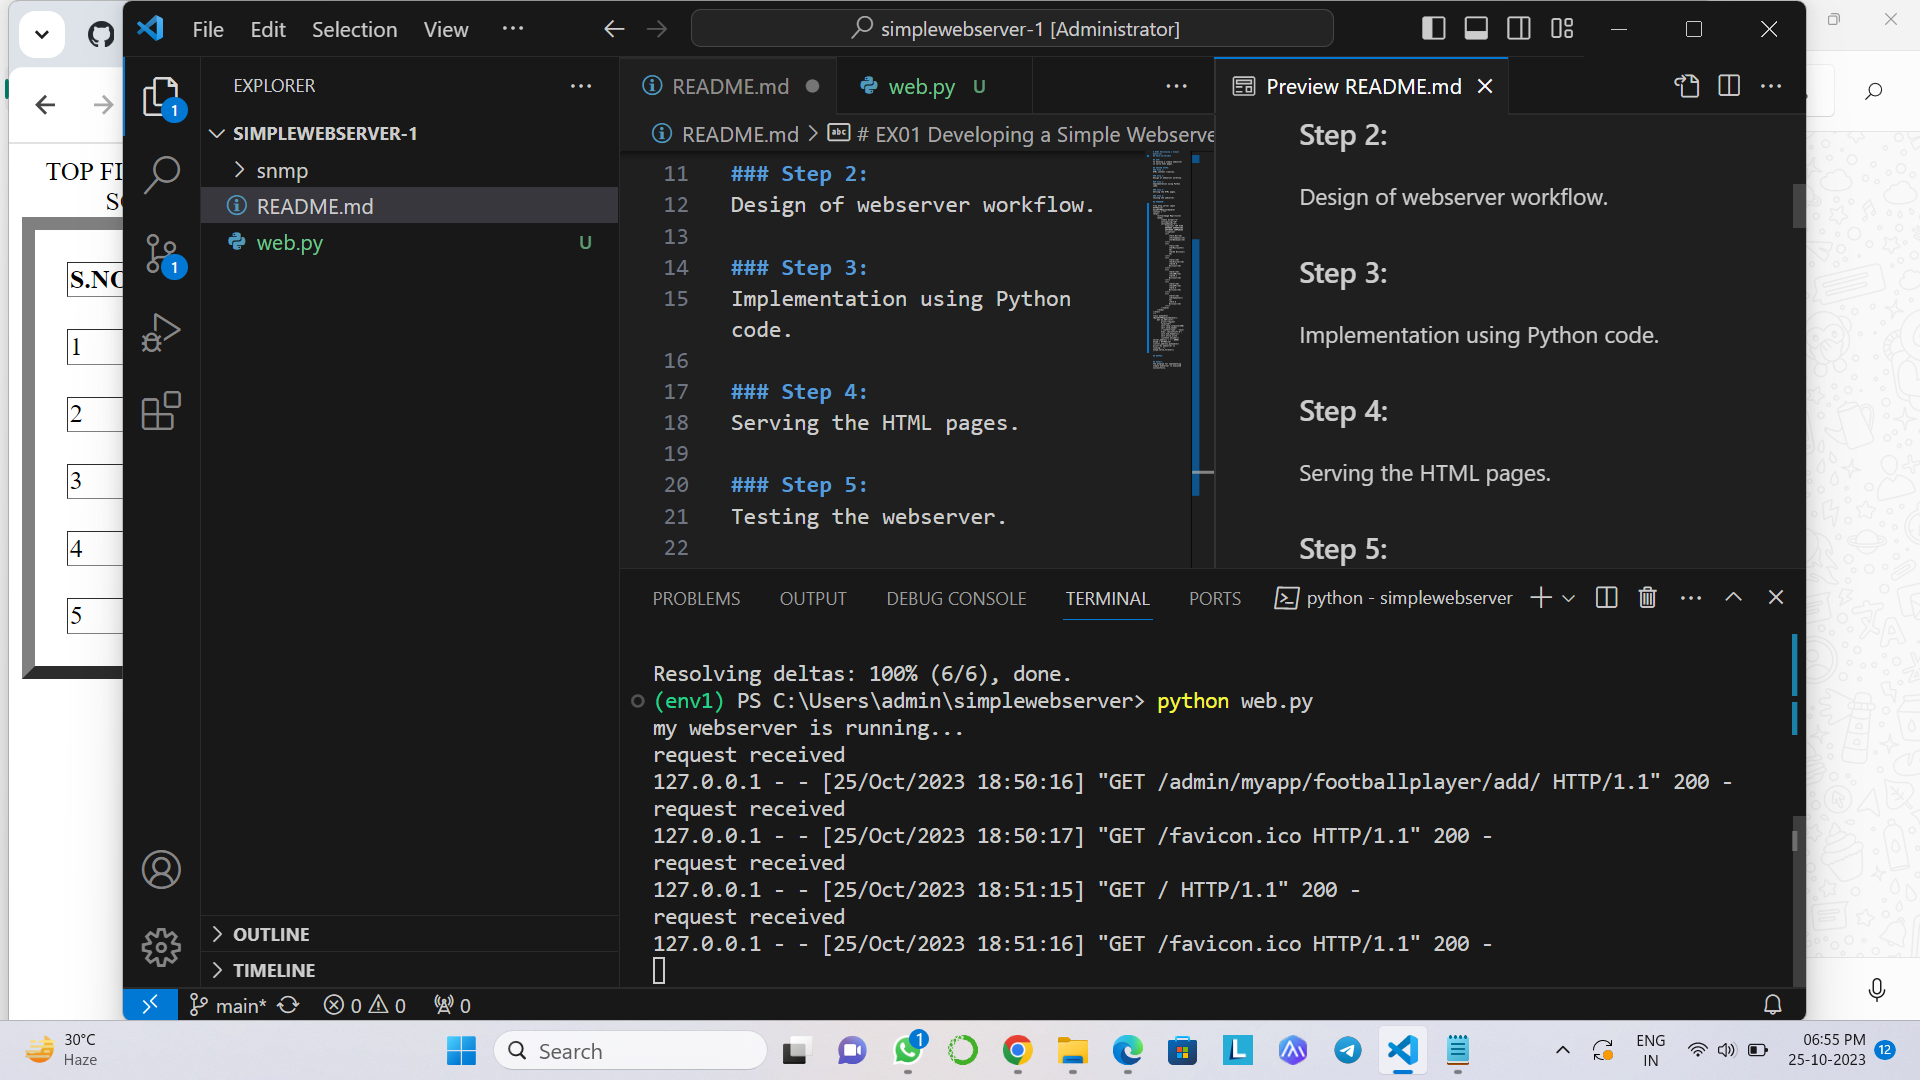
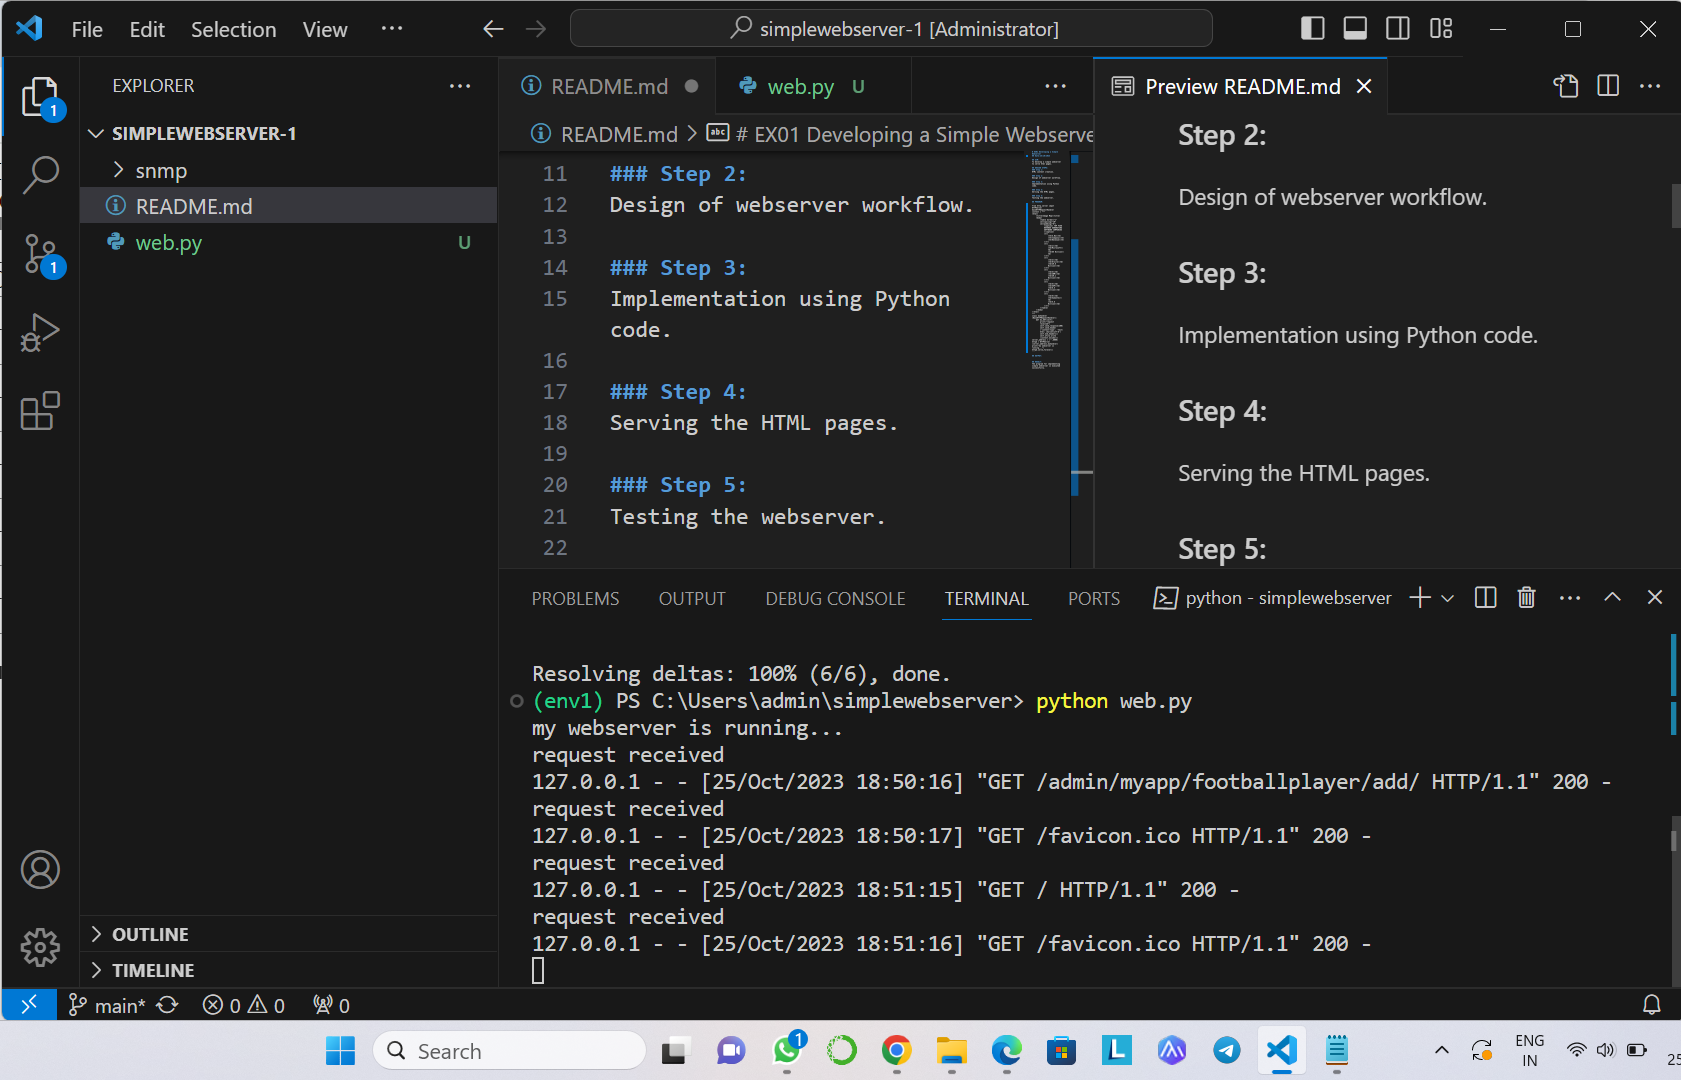
Success

diff --git a/README.md b/README.md
@@ -77,10 +77,10 @@ httpd.serve_forever()
 ```
 
 
-## OUTPUT:
-![Alt text](<Screenshot (8).png>)
+## ![Alt text](<Screenshot (77).png>)OUTPUT:
 
-![Alt text](<Screenshot (9).png>)
+
+![cd](<Screenshot (9).png>)
 
 ## RESULT:
 The program for implementing simple webserver is executed successfully.
